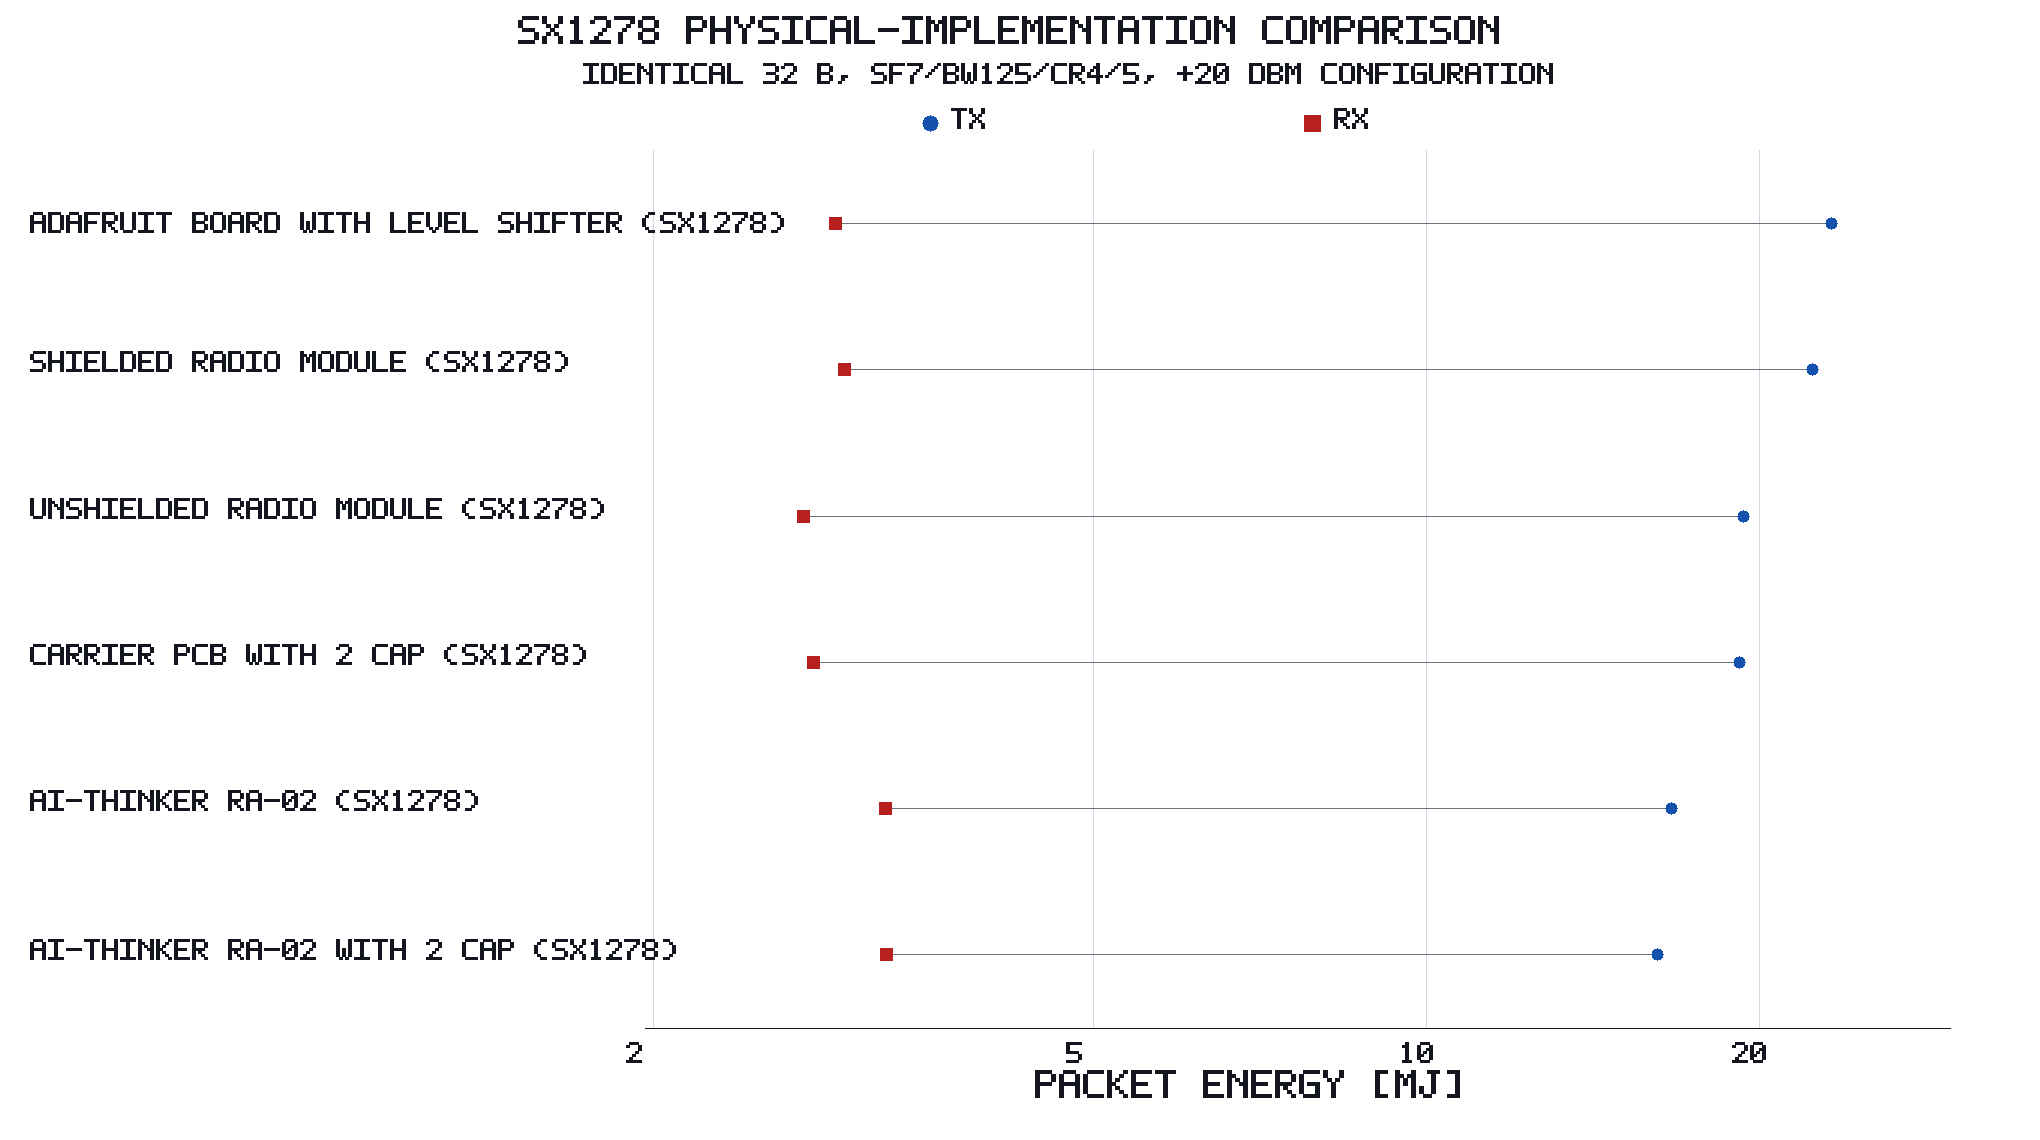
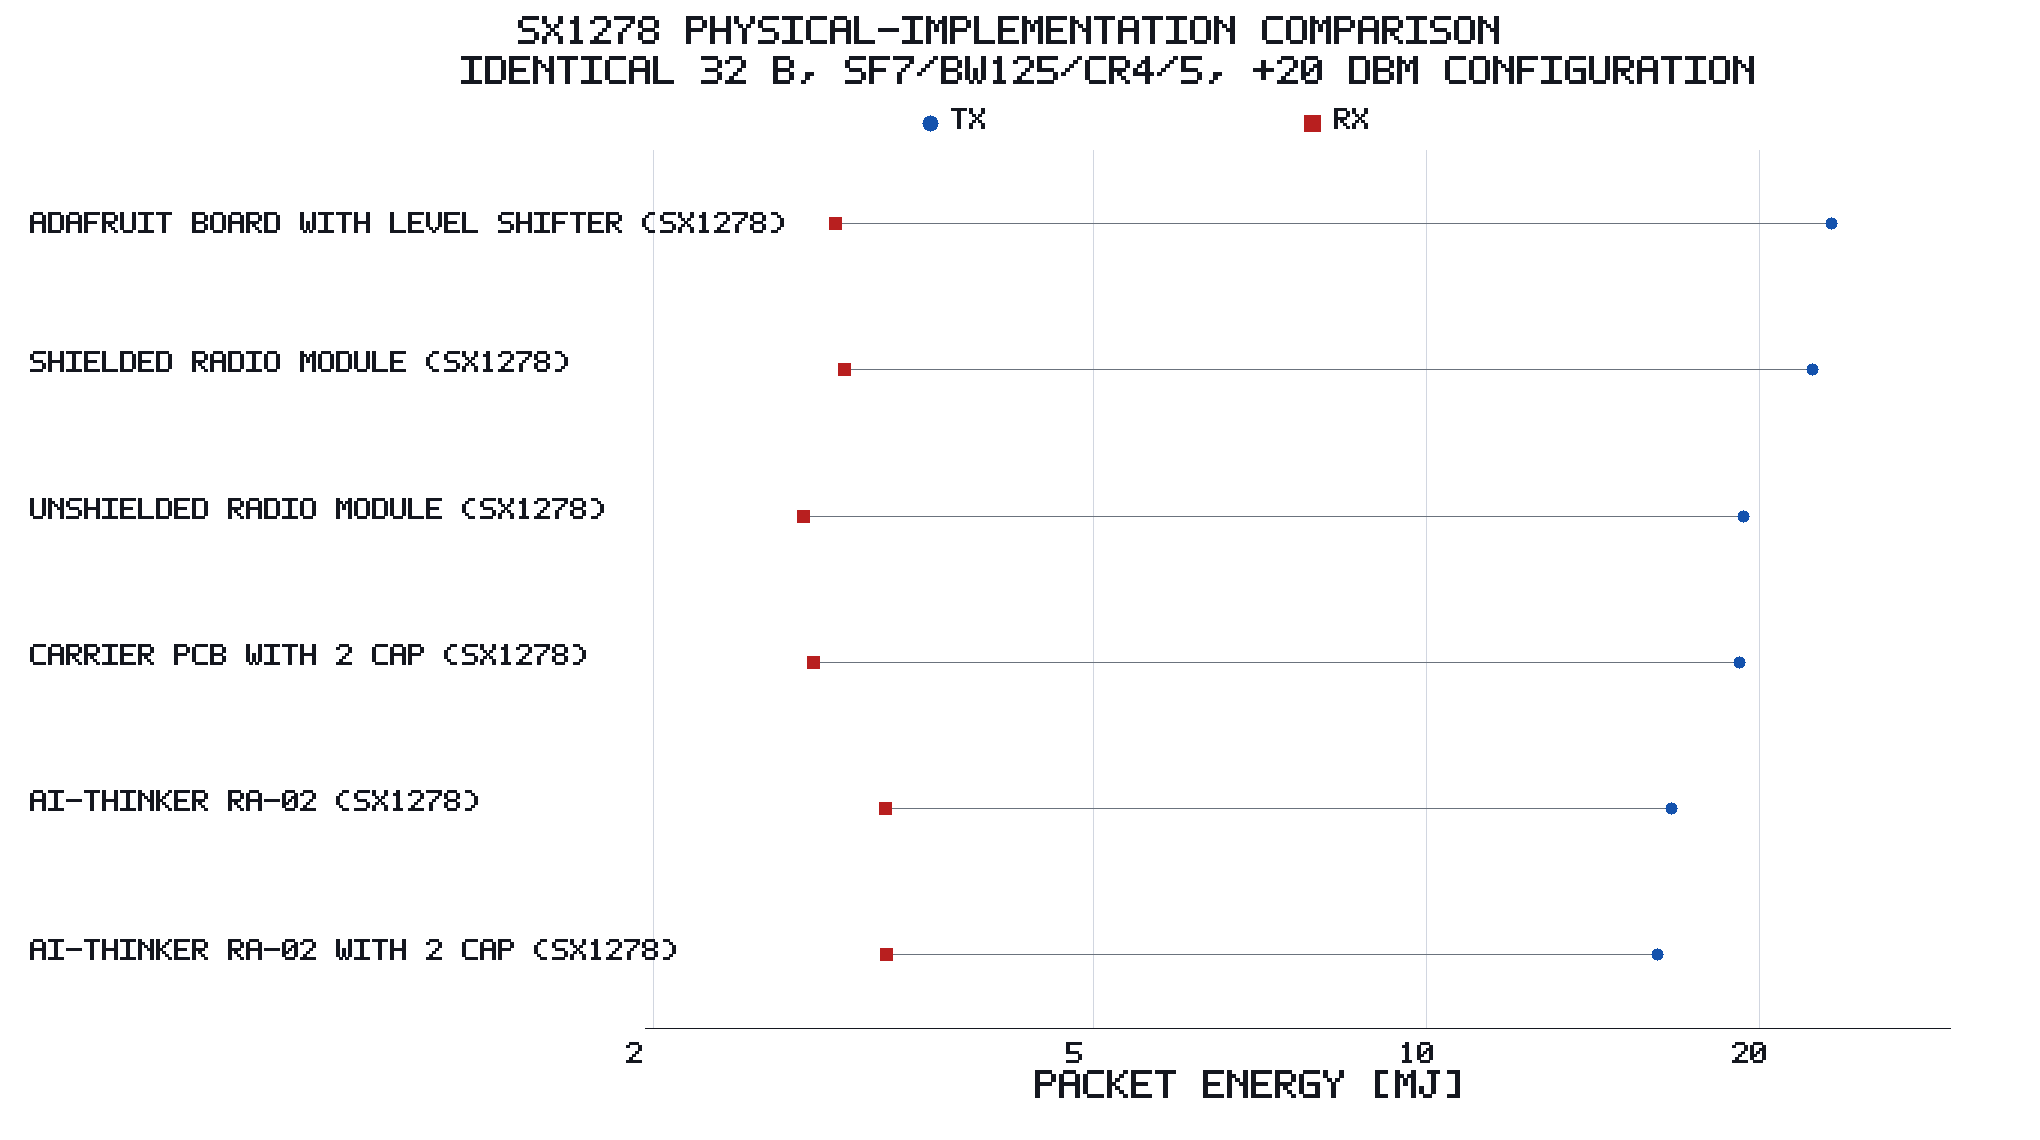
Improve SX1278 comparison subtitle

Changed region(s): [[0.2162, 0.0307, 0.8647, 0.0921]]

diff --git a/power_profiler/study/generate_study.py b/power_profiler/study/generate_study.py
@@ -838,12 +838,17 @@ def write_tables(
     (tables / "benchmark_summary.tex").write_text("\n".join(benchmark_lines) + "\n", encoding="utf-8")
 
 
-def title(canvas: PdfCanvas, value: str, subtitle: str = "") -> None:
+def title(
+    canvas: PdfCanvas,
+    value: str,
+    subtitle: str = "",
+    subtitle_font_size: float | None = None,
+) -> None:
     size = min(24.0, (canvas.width - 60) / max(1.0, len(value) * 0.68))
     canvas.text(max(30.0, (canvas.width - len(value) * size * 0.68) / 2.0), canvas.height - 35, value, size=size, bold=True)
     if subtitle:
         sub_size = min(
-            SUBTITLE_FONT_SIZE,
+            subtitle_font_size or SUBTITLE_FONT_SIZE,
             (canvas.width - 80) / max(1.0, len(subtitle) * 0.60),
         )
         canvas.text(
@@ -902,10 +907,11 @@ def dot_comparison(
     log_x: bool = True,
     radio_ic_column: bool = False,
     expanded_layout: bool = False,
+    subtitle_font_size: float | None = None,
 ) -> None:
     ordered = sorted(rows, key=lambda row: max(float(row[left_key]), float(row[right_key])))
     canvas = PdfCanvas(1360, 1210 if expanded_layout else 760)
-    title(canvas, heading, subtitle)
+    title(canvas, heading, subtitle, subtitle_font_size)
     if expanded_layout:
         box = (370.0, 100.0, 930.0, 985.0)
     else:
@@ -1805,6 +1811,7 @@ def variant_figure(path: Path, rows: Sequence[dict[str, object]]) -> None:
         "SX1278 physical-implementation comparison",
         "Packet energy [mJ]",
         "Identical 32 B, SF7/BW125/CR4/5, +20 dBm configuration",
+        subtitle_font_size=23.0,
     )
 
 
